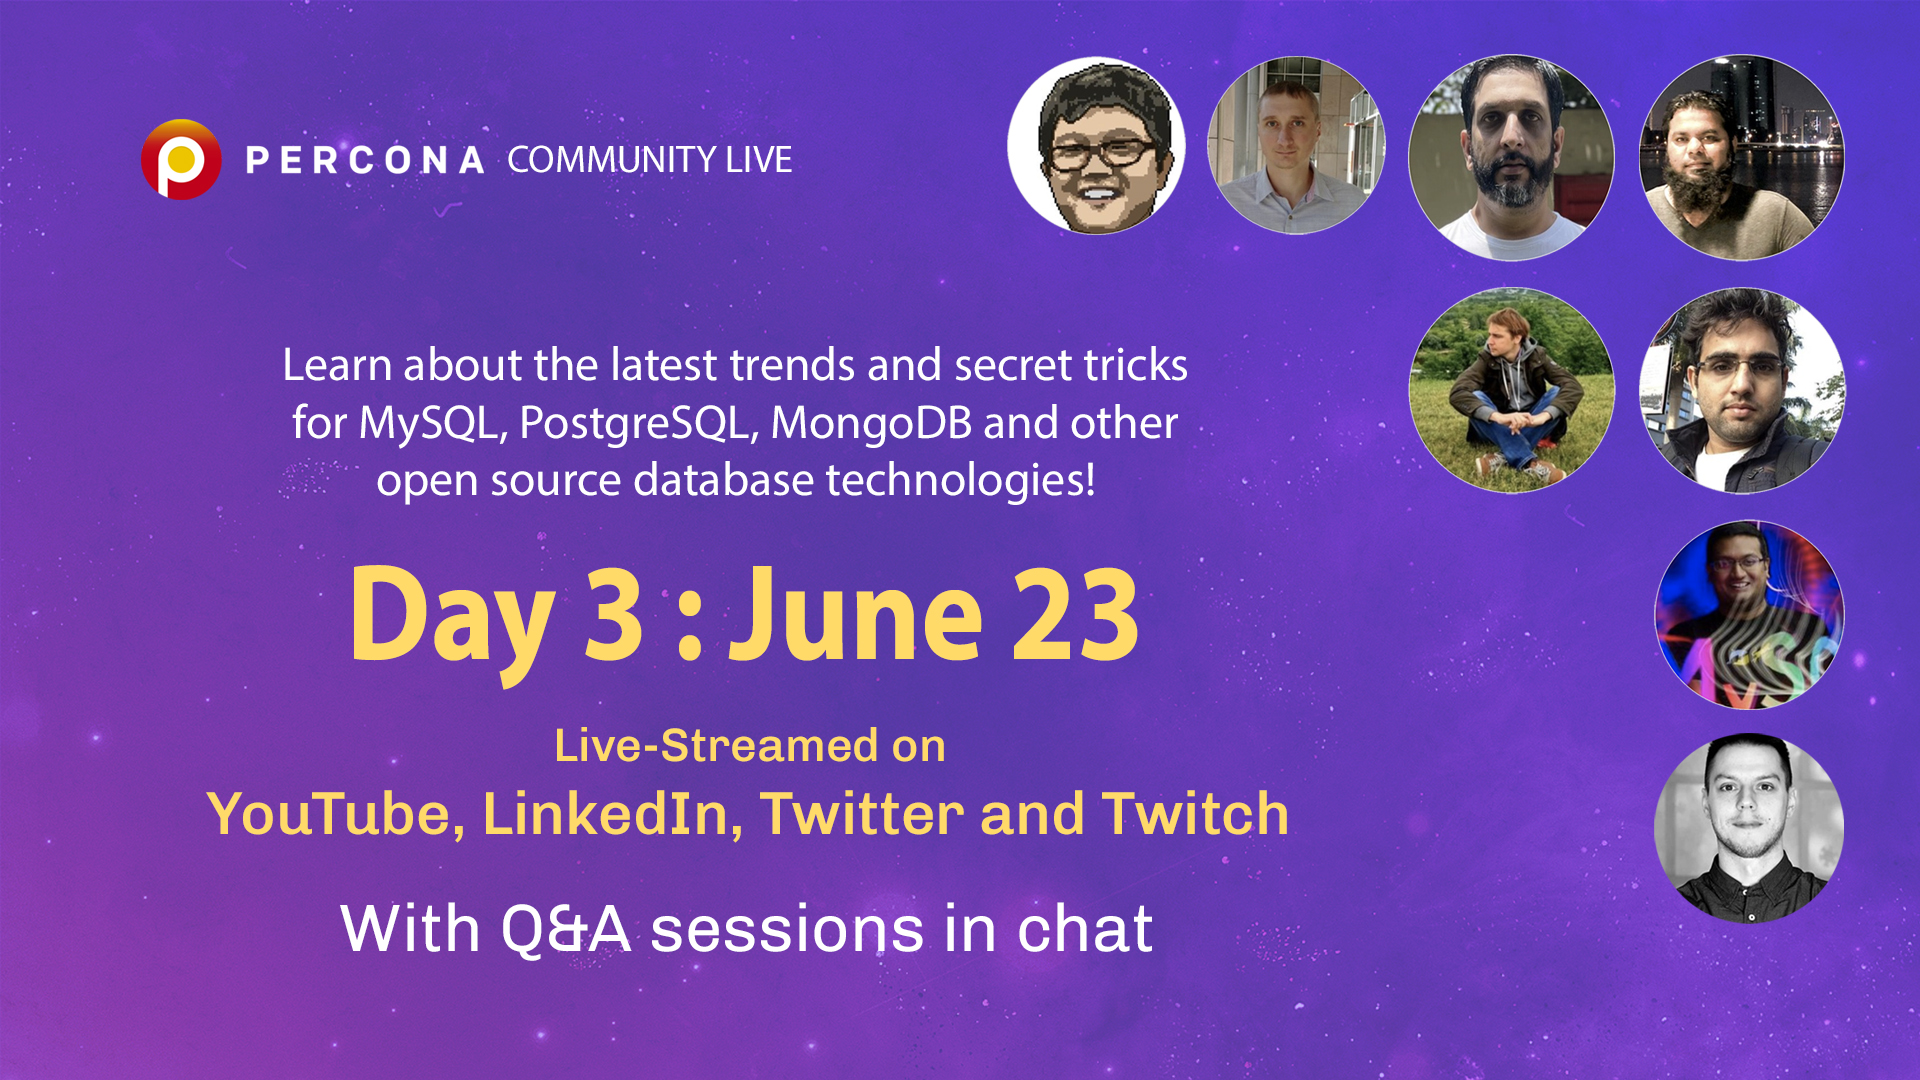
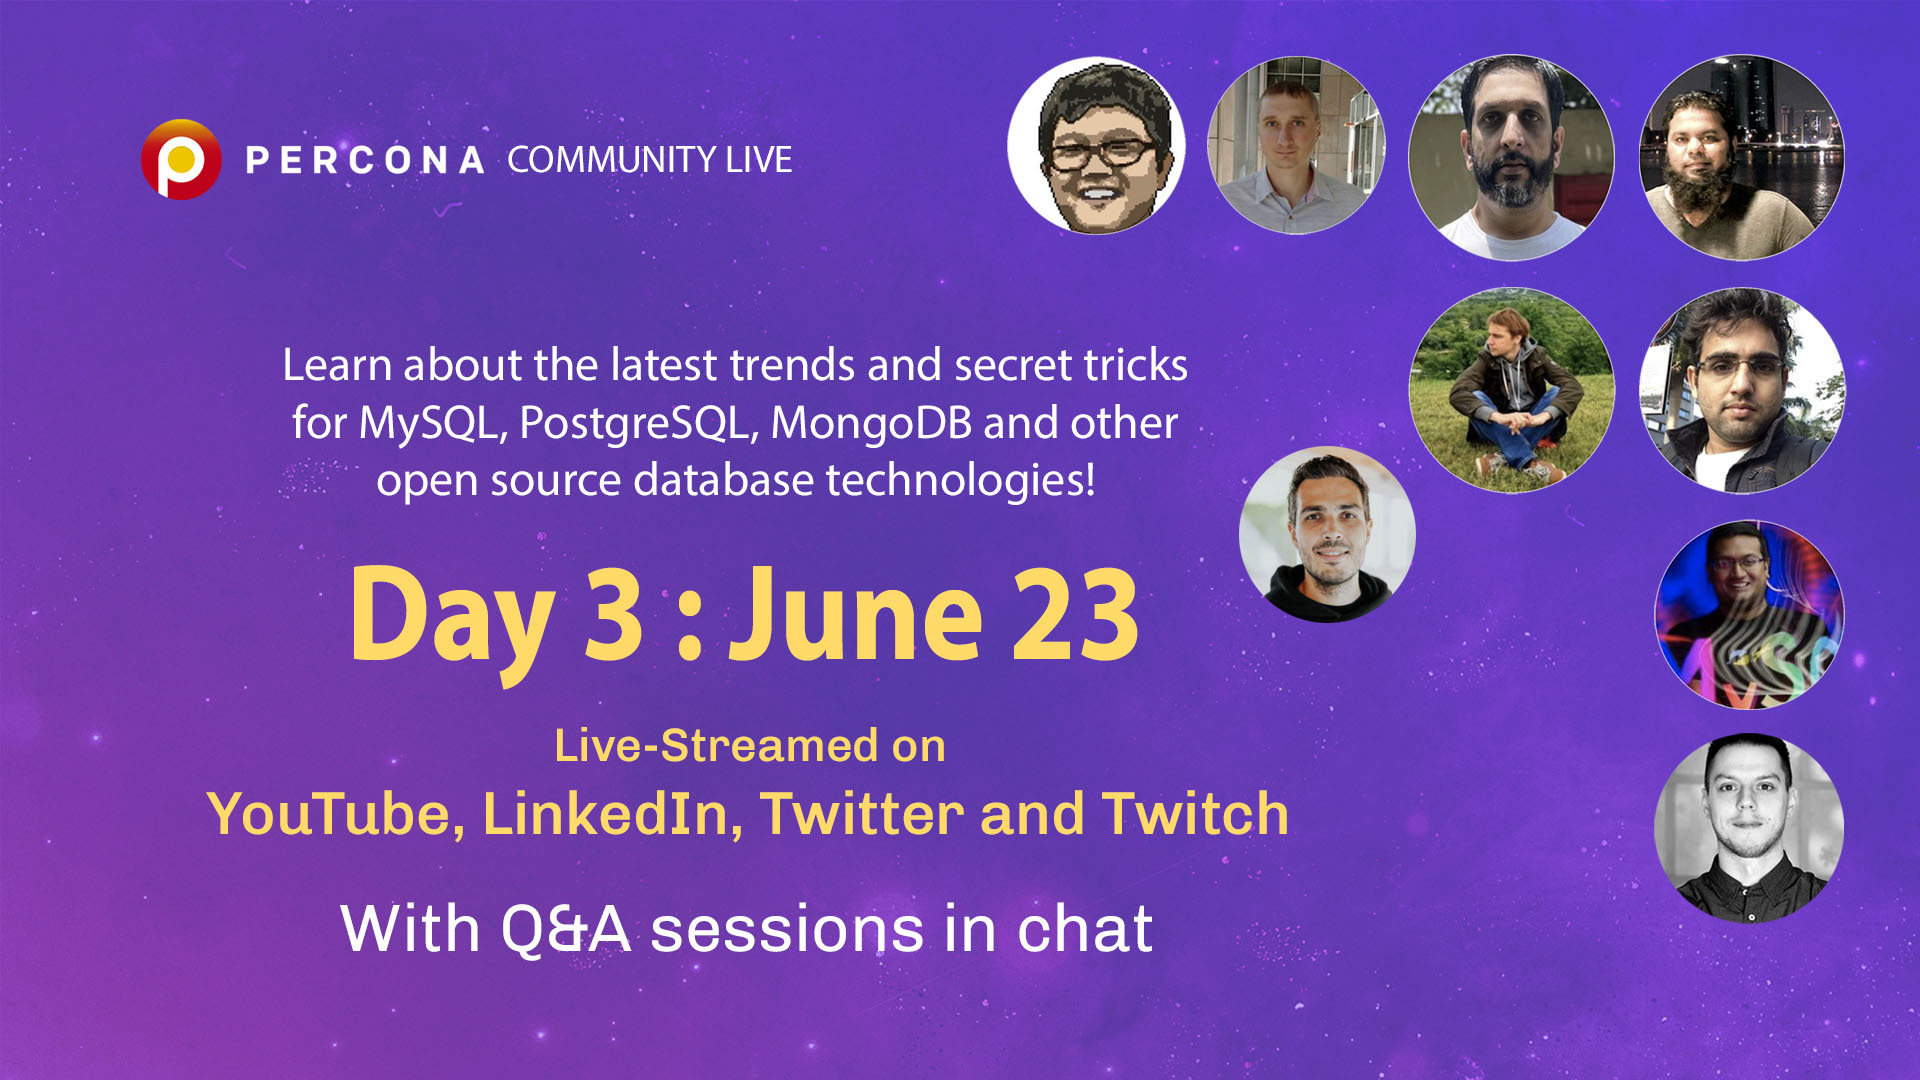
Add schedule changes

Changed region(s): [[0.625, 0.3972, 0.75, 0.5806]]

diff --git a/content/events/percona-community-live-2022/day-3-daniel-seybold.md b/content/events/percona-community-live-2022/day-3-daniel-seybold.md
@@ -1,0 +1,18 @@
+---
+title: "The Road Towards an Open Database Performance Ranking"
+description: "To enable an on-demand comparison of cloud-hosted databases, we present a database performance ranking as an open dataset that is created with the Benchmarking-as-a-Service platform benchANT."
+images:
+  -  events/percona-community-live/cards/Community-Live-Day-3-Daniel-Seybold.jpg
+PublishedDate: "2022-06-23"
+draft: false
+day: "June 23"
+speakers:
+  - daniel_seybold
+tags: ['performance', 'ranking']
+---
+
+Understanding the performance of different databases is crucial for building efficient, data-intensive applications. Benchmarking possible databases is a valid option for enabling such comparison, yet, it is a major challenge due to heterogeneity in the resource, database, and workload level.
+
+To enable an on-demand comparison of cloud-hosted databases, we present a database performance ranking as an open dataset that is created with the Benchmarking-as-a-Service platform benchANT. This ranking will be continuously extended to cover the latest advancements in the cloud resource, database, and benchmark domain.
+
+![The Road Towards an Open Database Performance Ranking](events/percona-community-live/cards/Community-Live-Day-3-Daniel-Seybold.jpg)

diff --git a/content/events/percona-community-live-2022/_index.md b/content/events/percona-community-live-2022/_index.md
@@ -40,6 +40,7 @@ speakers:
   - hamid_akhtar
   - naveed_shaikh
   - sidney_chen
+  - daniel_seybold
 weight: 1
 ---
 
@@ -49,5 +50,4 @@ It will take place on June 21-23 online and will be live-streamed on YouTube, Li
 
 We have so much great content on Percona Live this year (as usual, I should say). A lot of good speakers submitted talks, and we did not manage to find a slot for each excellent topic in the schedule. So we sat down and decided to run one more event! And we totally understand that travel is still challenging, that’s why it will be held virtually. All attendees will be able to ask their questions and chat on Discord. 
 
-The schedule will be released soon. 
 

diff --git a/content/speakers/daniel_seybold/index.md b/content/speakers/daniel_seybold/index.md
@@ -1,0 +1,17 @@
+---
+name: daniel_seybold
+name_pronunciation: daniel_seybold
+fullname: Daniel Seybold
+fullname_pronounciation: Daniel Seybold
+job: Co-Founder & Product Development, benchANT
+country: 
+tagline: 
+social:
+  website: 
+  facebook:
+  twitter:
+  github: 
+  linkedin: https://www.linkedin.com/in/seybold-benchant/
+images:
+  - speakers/daniel_seybold.png
+---
